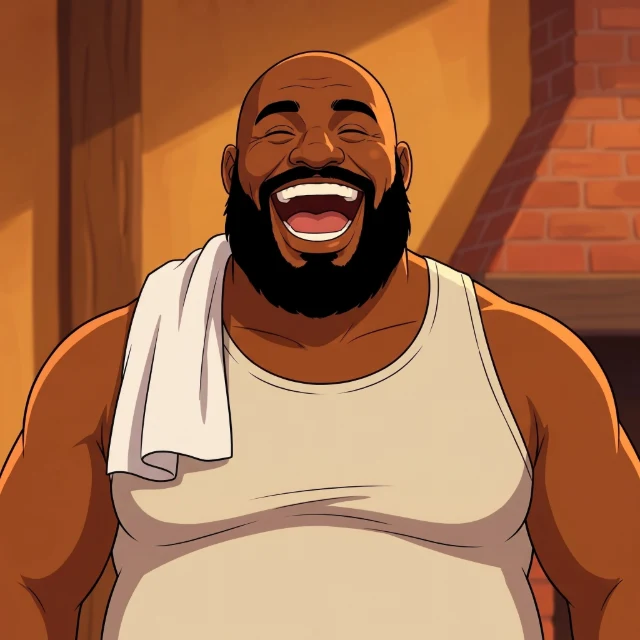
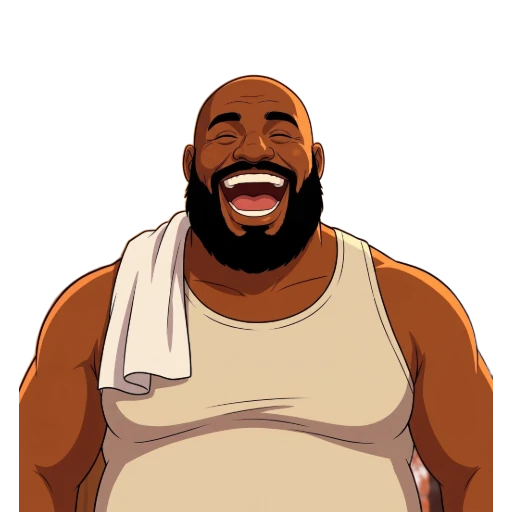
feat: las fichas del inicio tienen cara — retratos recortados sobre azul plano
Pedido de Gabi: las caras le gustan, pero en la tira del plantel van sin fondo,
sobre un azul genérico. Así quedó.

Los ocho arquetipos
Se completó el set con los dos que faltaban —leal (el de la camiseta gastada del
club) y mercenario (el de la cadenita y la campera de otro cuadro)—, así que hay
un retrato por cada Personality del juego.

Sin fondo
Los ocho pasaron por el quitafondos: quedan con alfa, y el azul lo pone la caja
(.retrato en styles.css) con un degradado plano. La ilustración ya no trae
escenario propio, así que cambiar ese azul —o hacerlo el color del club el día
que se quiera— es una línea de CSS. Reencuadrados al contenido: el sujeto queda
apoyado en el borde de abajo, como una foto de ficha, y no flotando en el cuadro.

Dónde se usan
Solo en la tira del plantel del inicio (ui/Retrato.tsx). El resto del juego
—ficha, plantilla, vestuario, convocatoria— sigue con los retratos SVG
procedurales, que dan una cara distinta por jugador sin límite.

Ocho caras, catorce jugadores
Dos del mismo arquetipo comparten retrato. Se disimula con `variante`: espeja la
ilustración y cambia el tono del azul según cuántos del mismo arquetipo vinieron
antes en la fila. Es un parche y está anotado como tal — la solución es un set
con varias caras por arquetipo, y ahí hay que decidir si el retrato sale de la
personalidad o de la apariencia persistida del jugador, que ya define edad, pelo
y barba.

Peso: 295 KB los ocho retratos, WebP con alfa, servidos como assets estáticos.
[…]

diff --git a/src/ui/Hub.tsx b/src/ui/Hub.tsx
@@ -5,11 +5,11 @@ import { rivalryWith } from '../game/leagueLife';
 import { activePlayers, clubPosition } from '../game/match';
 import { CAUSE_SHORT } from '../game/mood';
 import { clubByLegacyId, USER_CLUB_ID, userFixtureOfWeek } from '../game/world';
-import { Avatar } from './Avatar';
 import { ClubLink } from './ClubLink';
 import { Crest } from './Crest';
 import { Icon, type IconName } from './Icon';
 import { OpenProfileContext } from './PlayerLink';
+import { Retrato } from './Retrato';
 import { RivalLink } from './RivalLink';
 import { StyleChip } from './StyleChip';
 import { NavigateTabContext, type AppFocus, type AppTab } from './nav';
@@ -257,8 +257,11 @@ function PlantelStrip({ state }: { state: GameState }) {
         <span className="hub-plantel-leyenda">ánimo · cuota · físico</span>
       </h3>
       <div className="hub-plantel-row">
-        {active.map((p) => {
+        {active.map((p, i) => {
           const signals = playerSignals(p);
+          // Cuántos del mismo arquetipo vienen antes: el segundo veterano de la
+          // fila no puede ser idéntico al primero.
+          const repetido = active.slice(0, i).filter((x) => x.personality === p.personality).length;
           return (
             <button
               key={p.id}
@@ -266,9 +269,7 @@ function PlantelStrip({ state }: { state: GameState }) {
               onClick={() => open(p.id)}
               title={`${p.name} — ${signals.map((s) => s.label).join(' · ')}`}
             >
-              <span className="hub-jug-retrato">
-                <Avatar seed={p.id} age={p.age} appearance={p.appearance} title={p.name} size={62} />
-              </span>
+              <Retrato personality={p.personality} title={p.name} variante={repetido} />
               <span className="hub-jug-pos">{POS_ABBR[p.position] ?? p.position.slice(0, 3).toUpperCase()}</span>
               <span className="hub-jug-nombre">{shortName(p.name)}</span>
               <span className="hub-jug-estado">

diff --git a/src/ui/Retrato.tsx b/src/ui/Retrato.tsx
@@ -1,0 +1,48 @@
+import type { Personality } from '../game/types';
+
+/**
+ * Retrato ilustrado por arquetipo, recortado y sobre azul plano.
+ *
+ * Es el primer lugar donde el juego usa ilustración en vez del retrato SVG
+ * procedural (design/AVATAR_SYSTEM.md): la tira del plantel en el inicio. El
+ * resto del juego sigue con los procedurales, que dan una cara distinta por
+ * jugador — acá hay ocho caras, una por personalidad, así que dos jugadores del
+ * mismo arquetipo comparten retrato. Es a propósito hasta que exista el set
+ * grande (ver public/arte/LEEME.md).
+ *
+ * El fondo azul lo pone el contenedor y la ilustración va con alfa encima: el
+ * arte no trae fondo propio, así que cambiar el color es tocar una línea de CSS.
+ */
+const ARCHIVO: Record<Personality, string> = {
+  veterano: 'p-veterano.webp',
+  talentoso_informal: 'p-talentoso.webp',
+  social: 'p-social.webp',
+  cumplidor: 'p-cumplidor.webp',
+  competitivo: 'p-competitivo.webp',
+  protagonista: 'p-protagonista.webp',
+  leal: 'p-leal.webp',
+  mercenario: 'p-mercenario.webp',
+};
+
+export function Retrato({
+  personality,
+  title,
+  size = 62,
+  variante = 0,
+}: {
+  personality: Personality;
+  title: string;
+  size?: number;
+  /**
+   * Con ocho caras y catorce jugadores hay repetidos. La variante los separa sin
+   * arte nuevo: espeja el retrato y cambia el tono del azul. No los vuelve
+   * personas distintas — es un parche honesto hasta el set grande.
+   */
+  variante?: number;
+}) {
+  return (
+    <span className={`retrato v${variante % 3}`} style={{ width: size, height: size }}>
+      <img src={`${import.meta.env.BASE_URL}arte/${ARCHIVO[personality]}`} alt="" title={title} loading="lazy" />
+    </span>
+  );
+}

diff --git a/src/styles.css b/src/styles.css
@@ -824,15 +824,36 @@ button.danger {
   outline-offset: 1px;
 }
 
-.hub-jug-retrato {
-  width: 62px;
-  height: 62px;
-  display: grid;
-  place-items: center;
+/* Retrato ilustrado (ver ui/Retrato.tsx). El arte viene recortado, sin fondo:
+   el azul lo pone esta caja, plano y siempre el mismo — no es el color del club
+   ni el de una sección, es el fondo de la foto de ficha. */
+.retrato {
+  display: block;
+  flex: none;
   border-radius: var(--radius);
-  background: linear-gradient(180deg, var(--panel), var(--bg-soft));
   border: 1px solid var(--border);
+  background: linear-gradient(180deg, #3c6e9e 0%, #2a5075 100%);
   overflow: hidden;
+}
+
+.retrato img {
+  width: 100%;
+  height: 100%;
+  display: block;
+  object-fit: cover;
+}
+
+/* Variantes para los repetidos del mismo arquetipo (ver ui/Retrato.tsx). */
+.retrato.v1 {
+  background: linear-gradient(180deg, #4a7a94 0%, #2f5a6d 100%);
+}
+
+.retrato.v1 img {
+  transform: scaleX(-1);
+}
+
+.retrato.v2 {
+  background: linear-gradient(180deg, #3a5d92 0%, #27406b 100%);
 }
 
 .hub-jug-pos {

diff --git a/public/arte/LEEME.md b/public/arte/LEEME.md
@@ -22,13 +22,16 @@ El encuadre lo decide `.cabecera-arte` en `src/styles.css` (`background-position
 34%`): la banda muestra una franja, así que al cambiar una ilustración hay que mirar que
 las caras no queden cortadas.
 
-## Retratos de arquetipo (1:1, 640 px)
+## Retratos de arquetipo (1:1, 512 px, **sin fondo**)
 
-**Todavía no los usa el juego.** Los retratos del plantel siguen siendo los SVG
-procedurales (`design/AVATAR_SYSTEM.md`), que dan una cara distinta para cada jugador sin
-límite. Estas seis son la lámina de prueba de la puerta de personajes: sirven para decidir
-si la ficha pasa a ilustración, y en ese caso hay que producir el set completo y resolver
-cómo se asigna una cara a cada jugador.
+Uno por personalidad del juego, recortados con alfa: el fondo azul lo pone la caja
+(`.retrato` en `src/styles.css`), no la ilustración. Cambiar ese azul —o pasarlo al color
+del club— es tocar una línea de CSS.
+
+Los usa `<Retrato personality={…} />` (`src/ui/Retrato.tsx`) en **la tira del plantel del
+inicio**. El resto del juego —ficha, plantilla, vestuario, convocatoria— sigue con los
+retratos SVG procedurales (`design/AVATAR_SYSTEM.md`), que dan una cara distinta por
+jugador sin límite.
 
 | Archivo | Arquetipo (`Personality`) |
 | --- | --- |
@@ -38,5 +41,18 @@ cómo se asigna una cara a cada jugador.
 | `p-cumplidor.webp` | `cumplidor` |
 | `p-competitivo.webp` | `competitivo` |
 | `p-protagonista.webp` | `protagonista` |
+| `p-leal.webp` | `leal` |
+| `p-mercenario.webp` | `mercenario` |
 
-Faltan `leal` y `mercenario`.
+**Ocho caras para catorce jugadores**: dos del mismo arquetipo comparten retrato. Se
+disimula con `variante` (espeja la ilustración y cambia el tono del azul), que es un
+parche, no una solución. La solución es un set con varias caras por arquetipo asignadas
+por seed — y ahí conviene revisar si el retrato tiene que salir de la personalidad o de la
+apariencia persistida del jugador, que ya existe y ya define edad, pelo y barba.
+
+## Cómo se hicieron
+
+Generadas con `nano_banana_pro` pasando `portada.webp` como `image_references`, recortadas
+con el quitafondos del mismo servicio y reencodeadas a WebP. Los PNG de 2k no están en el
+repo. Si hay que rehacer una, lo que mantiene la familia es la referencia: sin ella el
+estilo se va.
